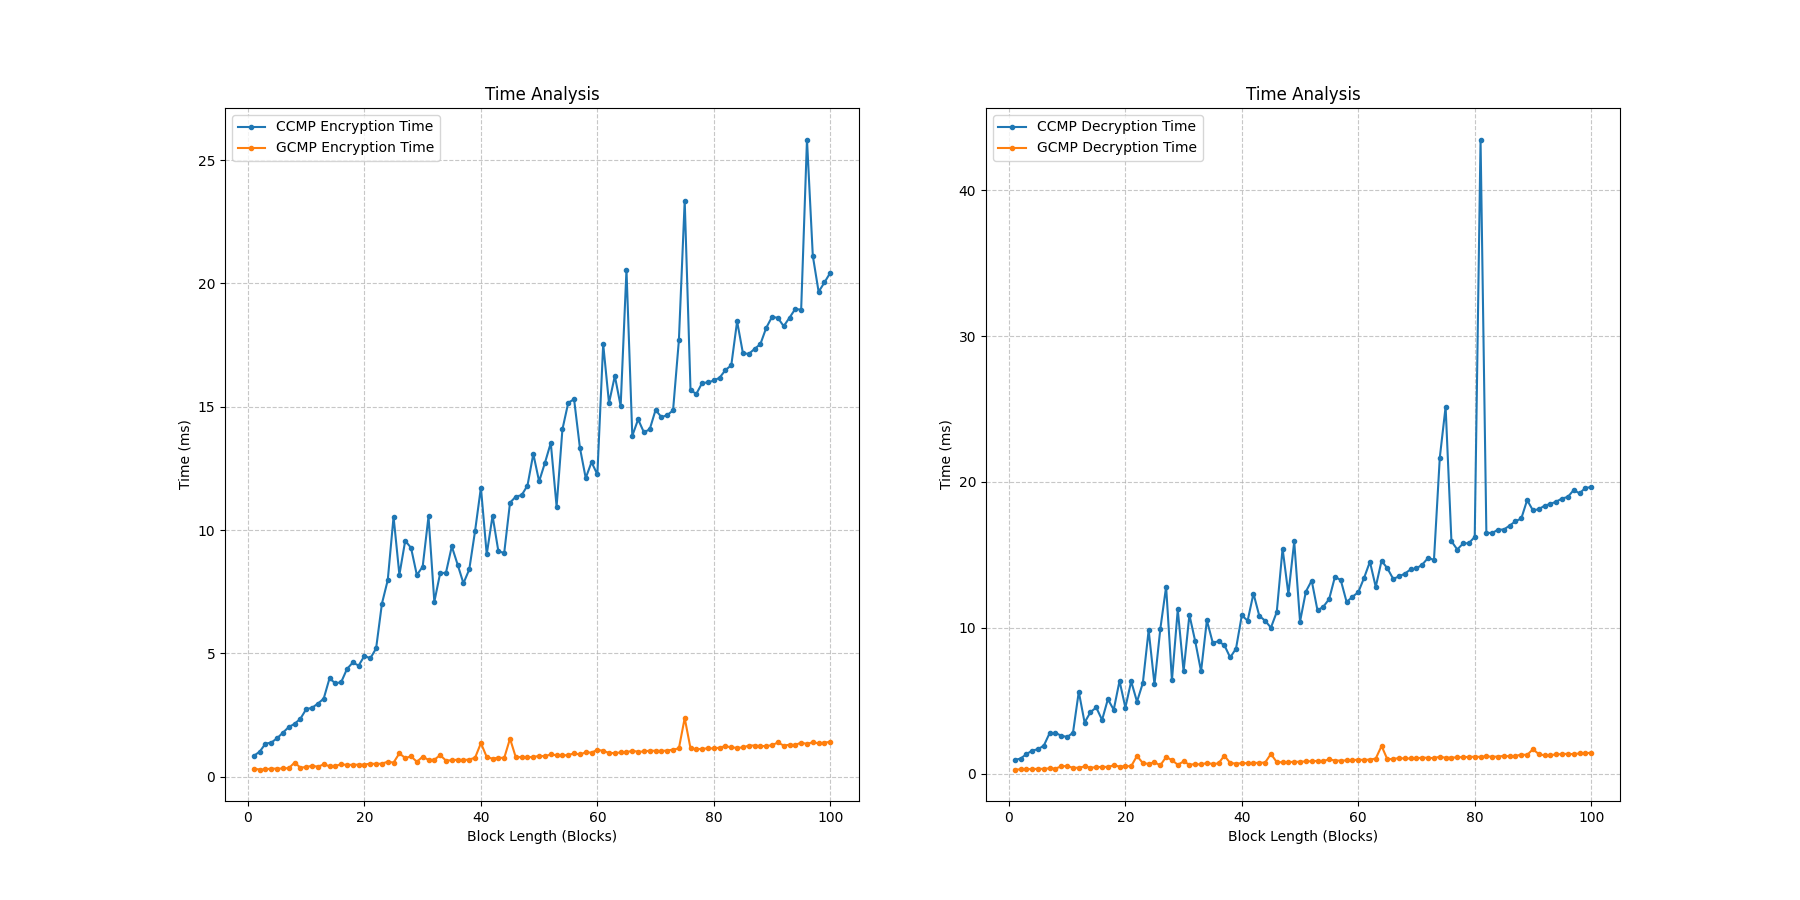
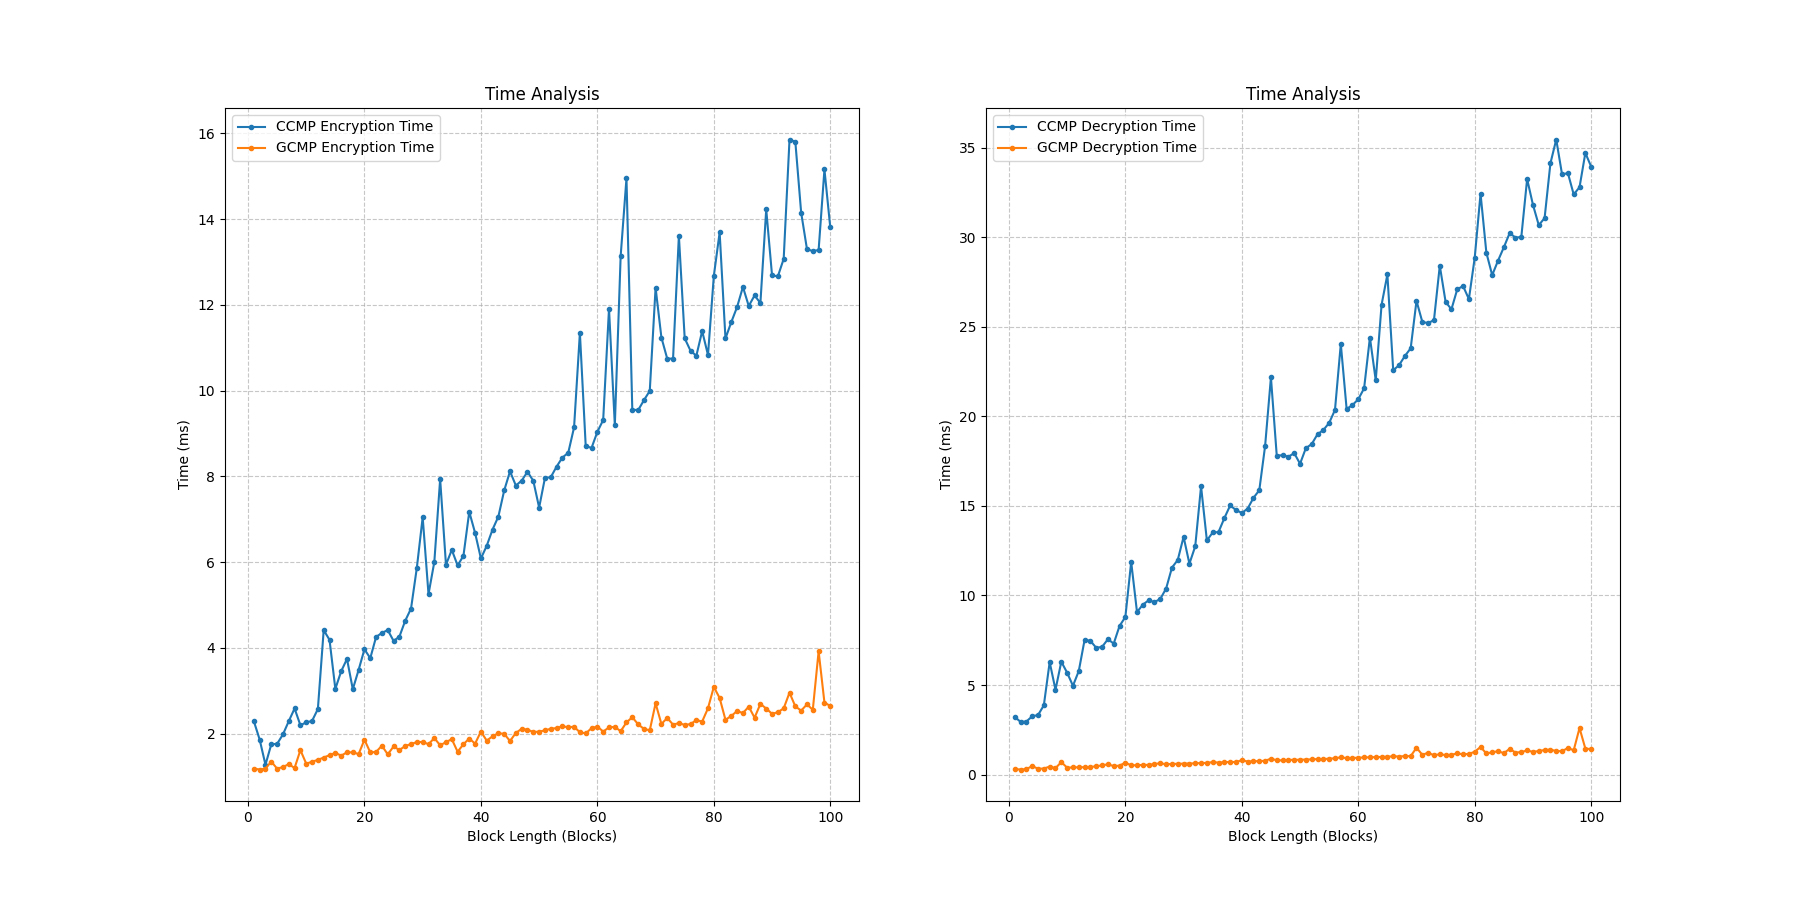
ok done somthing else

diff --git a/main.py b/main.py
@@ -20,8 +20,7 @@ class LinkMode:
         f0 = open('output.log','w')
 
     def __init__(self, protocol, blocks):
-        self.penc = CodeAnalysis.Profile()
-        self.pdec = CodeAnalysis.Profile()
+        self.pr = CodeAnalysis.Profile()
         self.protocol = protocol
         self.frame_header = bytes(open("frame_header.txt", "r").read(), 'utf-8')
         self.plaintext = bytes(open("msg1.txt", "r").read(int(blocks)*16), 'utf-8')
@@ -45,13 +44,13 @@ class LinkMode:
                 self.ciphertext, self.smic = pyAES.AES(self.key, self.ivs).encrypt_ccmp(self.frame_header, self.plaintext)
             elif self.protocol == "gcmp":
                 self.ciphertext, self.smic = pyAES.AES(self.key, self.ivs).encrypt_gcmp(self.frame_header, self.plaintext)
-        self.penc.enable()
+        self.pr.enable()
         protocal_encrypt()
-        self.penc.disable()
+        self.pr.disable()
         self.entropy_ct = CodeAnalysis.entropy(self.ciphertext)
         self.entropy_mic = CodeAnalysis.entropy(self.smic)
-        self.encryption_time = CodeAnalysis.get_exectime(self.penc)
-        self.cpuE = CodeAnalysis.get_cpu(self.penc)
+        self.encryption_time = CodeAnalysis.get_exectime(self.pr)
+        self.cpuE = CodeAnalysis.get_cpu(self.pr)
         self.ramE = CodeAnalysis.get_ram(protocal_encrypt)
         # Console logging
         print(f"Cipher text: {str(self.ciphertext)}", file=self.f0)
@@ -69,11 +68,11 @@ class LinkMode:
                 self.plaintext, self.rmic = pyAES.AES(self.key, self.ivs).decrypt_ccmp(self.frame_header, self.ciphertext)
             elif self.protocol == "gcmp":
                 self.plaintext, self.rmic = pyAES.AES(self.key, self.ivs).decrypt_gcmp(self.frame_header, self.ciphertext)      
-        self.pdec.enable()
+        self.pr.enable()
         protocal_decrypt()
-        self.pdec.disable()
-        self.decryption_time = CodeAnalysis.get_exectime(self.pdec)
-        self.cpuD = CodeAnalysis.get_cpu(self.pdec)
+        self.pr.disable()
+        self.decryption_time = CodeAnalysis.get_exectime(self.pr)
+        self.cpuD = CodeAnalysis.get_cpu(self.pr)
         self.ramD = CodeAnalysis.get_ram(protocal_decrypt)
         # Console logging
         if self.rmic == self.smic:
@@ -140,7 +139,7 @@ def main():
             gcmp = LinkMode(protocol, i+1)
             gcmp.encrypt()
             gcmp.decrypt()
-            f1.write(f"{gcmp.entropy_mic},{gcmp.encryption_time},{gcmp.ramE},{gcmp.cpuE},{gcmp.decryption_time},{gcmp.ramD},{gcmp.cpuD}\n")
+            f1.write(f"{gcmp.entropy_mic},{gcmp.decryption_time},{gcmp.ramE},{gcmp.cpuE},{gcmp.encryption_time},{gcmp.ramD},{gcmp.cpuD}\n")
             del gcmp
         print("")
         print("[#] COMPILATION SUCCESSFUL: Check Results.csv and Results.log files for the output.")

diff --git a/pyAES.py b/pyAES.py
@@ -248,18 +248,18 @@ class AES:
         return xor_bytes(self.ivs[0], previous)
     
     def encrypt_ccmp(self, frame_header, plaintext):
-        # def tp1(a):
-        #     self.ct = self.encrypt_ctr(a)
-        # def tp2(b):
-        #     self.smic = self.cbcmac(b)
-        # t1 = threading.Thread(target=tp1, args=(plaintext,))
-        # t2 = threading.Thread(target=tp2, args=(frame_header+plaintext,))
-        # t1.start()
-        # t2.start()
-        # t1.join()
-        # t2.join()
-        self.ct = self.encrypt_ctr(plaintext)
-        self.smic = self.cbcmac(frame_header+plaintext)
+        def tp1(a):
+            self.ct = self.encrypt_ctr(a)
+        def tp2(b):
+            self.smic = self.cbcmac(b)
+        t1 = threading.Thread(target=tp1, args=(plaintext,))
+        t2 = threading.Thread(target=tp2, args=(frame_header+plaintext,))
+        t1.start()
+        t2.start()
+        t1.join()
+        t2.join()
+        # self.ct = self.encrypt_ctr(plaintext)
+        # self.smic = self.cbcmac(frame_header+plaintext)
         return self.ct, self.smic
 
     def decrypt_ccmp(self, frame_header, ciphertext):
@@ -273,18 +273,18 @@ class AES:
         return ciphertext, mic
 
     def decrypt_gcmp(self, frame_header, ciphertext):
-        # def tp1(a):
-        #     self.pt = self.decrypt_ctr(a)
-        # def tp2(b):
-        #     self.rmic = self.gmac(b)
-        # t1 = threading.Thread(target=tp1, args=(ciphertext,))
-        # t2 = threading.Thread(target=tp2, args=(ciphertext,))
-        # t1.start()
-        # t2.start()
-        # t1.join()
-        # t2.join()
-        self.pt = self.decrypt_ctr(ciphertext)
-        self.rmic = self.gmac(ciphertext)
+        def tp1(a):
+            self.pt = self.decrypt_ctr(a)
+        def tp2(b):
+            self.rmic = self.gmac(b)
+        t1 = threading.Thread(target=tp1, args=(ciphertext,))
+        t2 = threading.Thread(target=tp2, args=(ciphertext,))
+        t1.start()
+        t2.start()
+        t1.join()
+        t2.join()
+        # self.pt = self.decrypt_ctr(ciphertext)
+        # self.rmic = self.gmac(ciphertext)
         return self.pt, self.rmic
 
 

diff --git a/plots.py b/plots.py
@@ -62,11 +62,11 @@ x = 'Block Length'
 # Blk vs (PT, CT)
 y = ['Entropy Plain Text', 'Entropy Cipher Text']
 d1 = MatData(x, y, 'Entropy Analysis', 'Block Length (Blocks)', 'Entropy')
-plot_data(df, d1, 1)
+# plot_data(df, d1, 1)
 # Blk vs (CCMP MIC, GCMP MIC)
 y = ['Entropy Plain Text', 'CCMP Entropy MIC', 'GCMP Entropy MIC']
 d2 = MatData(x, y, 'Entropy Analysis', 'Block Length (Blocks)', 'Entropy')
-plot_data(df, d2, 2)
+# plot_data(df, d2, 2)
 
 # Time Analysis Graphs:
 # Blk vs (CCMP Enc, CCMP Dec)
